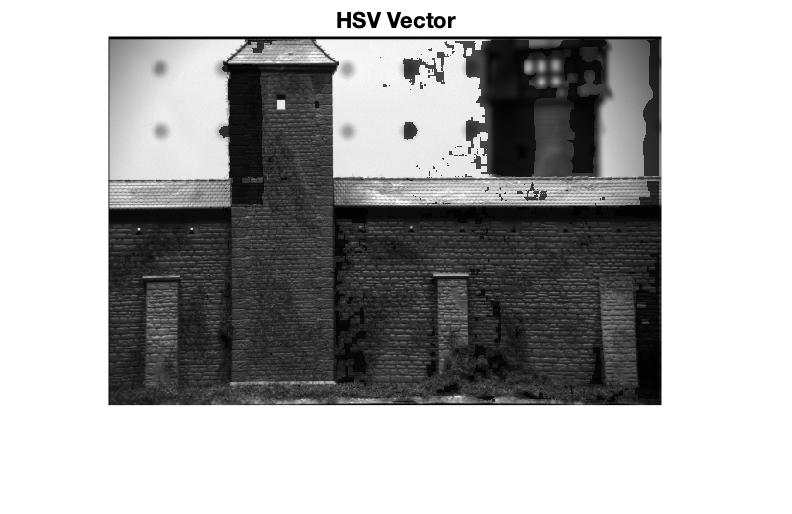
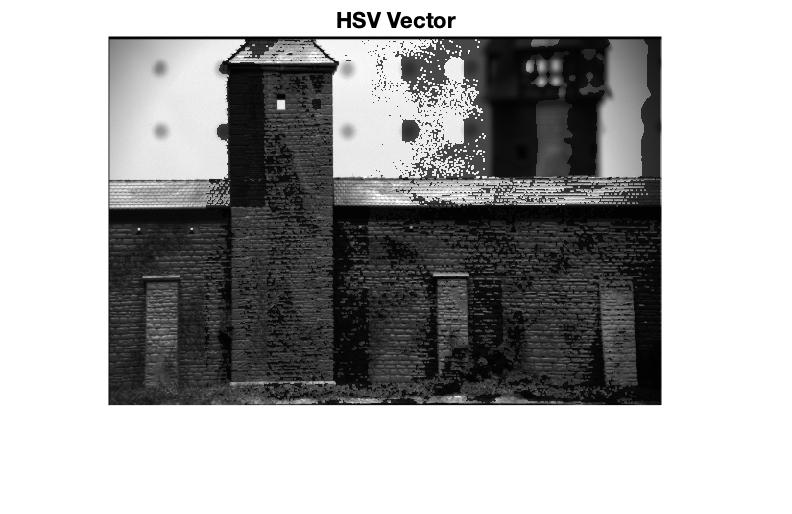
photos

diff --git a/project3.m b/project3.m
@@ -2,9 +2,9 @@ clear
 clc
 
 RccTH = 0.999;
-RsTH = 150;
+RsTH = 250;
 RansacTH =1e-9;
-ransacRounds = 5000;
+ransacRounds = 2000;
 lrCorrTH = 5;
 searchRadius = 100;
 W = 3;
@@ -241,8 +241,8 @@ for i = (1+W):(size(image1,1)-W)
         bestK = -1;
         bestL = -1;
         abc = F * [j i 1]';
-        a = -abc(1)/abc(3);
-        b = -abc(2)/abc(3);
+        a = -abc(1)/abc(2);
+        b = -abc(3)/abc(2);
         image1Vals = image1Orig((i-W+1):(i+W),(j-W+1):(j+W),:);
         for l = max(1+W,j-searchRadius):min((size(image2,2)-W),j+searchRadius)
             k = round(a*l + b);
@@ -265,30 +265,30 @@ for i = (1+W):(size(image1,1)-W)
         bestJ = -1;
         kTemp = round(a*bestL + b);
         lTemp = bestL;
-        a
-        b
-        abc = [lTemp kTemp 1] * F;
-        a = -abc(1)/abc(2);
-        b = -abc(3)/abc(2);
-    
-        image2Vals = image2Orig(max((kTemp-W+1),1):min((kTemp+W), size(image2Orig,1)),max((lTemp-W+1),1):min((lTemp+W), size(image2Orig,2)),:);
-        for jTemp = max(W+1,lTemp-searchRadius):min((size(image1,2)-W),lTemp+searchRadius)
-            iTemp = round(a*jTemp + b);
-            if iTemp >= (W+1) && iTemp <= maxY1
-                value = sum(sum(sum((image1Orig((iTemp-W+1):(iTemp+W),(jTemp-W+1):(jTemp+W),:) - image2Vals).^2)));
-                if value < bestValTemp
-                    bestValTemp = value;
-                    bestJ = jTemp;
-                end
-            end
-        end
-        
-        if bestJ > -1
-            if abs(bestJ - j) < lrCorrTH
-                xDisparity(i,j) = xDisparityTemp;
-                yDisparity(i,j) = yDisparityTemp;
-            end
-        end
+%         a
+%         b
+%         abc = [lTemp kTemp 1] * F;
+%         a = -abc(1)/abc(2);
+%         b = -abc(3)/abc(2);
+%     
+%         image2Vals = image2Orig(max((kTemp-W+1),1):min((kTemp+W), size(image2Orig,1)),max((lTemp-W+1),1):min((lTemp+W), size(image2Orig,2)),:);
+%         for jTemp = max(W+1,lTemp-searchRadius):min((size(image1,2)-W),lTemp+searchRadius)
+%             iTemp = round(a*jTemp + b);
+%             if iTemp >= (W+1) && iTemp <= maxY1
+%                 value = sum(sum(sum((image1Orig((iTemp-W+1):(iTemp+W),(jTemp-W+1):(jTemp+W),:) - image2Vals).^2)));
+%                 if value < bestValTemp
+%                     bestValTemp = value;
+%                     bestJ = jTemp;
+%                 end
+%             end
+%         end
+%         
+%         if bestJ > -1
+%             if abs(bestJ - j) < lrCorrTH
+%                 xDisparity(i,j) = xDisparityTemp;
+%                 yDisparity(i,j) = yDisparityTemp;
+%             end
+%        end
     end
 end
 

diff --git a/test.m b/test.m
@@ -3,31 +3,31 @@
 % figure; 
 % % Rs = harrisDetector(imageGray, 100);
 % figure
-%  image('CData', image1Orig,'XData',[1 576], 'YData', [-1 -384])
-% for i = 1:size(Rs1,1)
-%     for j = 1:size(Rs1,2)
-%         if(Rs1(i,j)>=150)
+%  image('CData', image2Orig,'XData',[1 450], 'YData', [-1 -375])
+% for i = 1:size(Rs2,1)
+%     for j = 1:size(Rs2,2)
+%         if(Rs2(i,j)>=150)
 %             hold on
 %             plot(j,-i,'.','MarkerSize',40)
 %         end
 %     end
 % end
-%%
+%
 shiftNum = size(image2Orig,1);
 shift = [1 0 0; 0 1 0; 0 shiftNum 1];
 shiftHP = affine2d(shift);
 [image1Shift image1ShiftRef] = imwarp(image1Orig, shiftHP);
 image2Ref = imref2d(size(image2Orig));
 
-% figure(25);
-% clf;
-% imshowpair(image2Orig, image2Ref, image1Shift, image1ShiftRef, 'blend','Scaling','joint');
-% 
-% hold on
-% 
-% for i = 1:size(pairs,2)
-%     plot([pairs(i).col1, pairs(i).col2], [pairs(i).row1 + shiftNum, pairs(i).row2], 'Linewidth', 2);
-% end
+figure(25);
+clf;
+imshowpair(image2Orig, image2Ref, image1Shift, image1ShiftRef, 'blend','Scaling','joint');
+
+hold on
+
+for i = 1:size(pairs,2)
+    plot([pairs(i).col1, pairs(i).col2], [pairs(i).row1 + shiftNum, pairs(i).row2], 'Linewidth', 2);
+end
 
 figure(35);
 clf;
@@ -39,7 +39,7 @@ for i = 1:size(bestInliers,2)
     plot([bestInliers(i).col1, bestInliers(i).col2], [bestInliers(i).row1 + shiftNum, bestInliers(i).row2], 'Linewidth', 2);
 end
 
-%% 
+% 
 
 figure(45);
 imshow(image1Orig);
